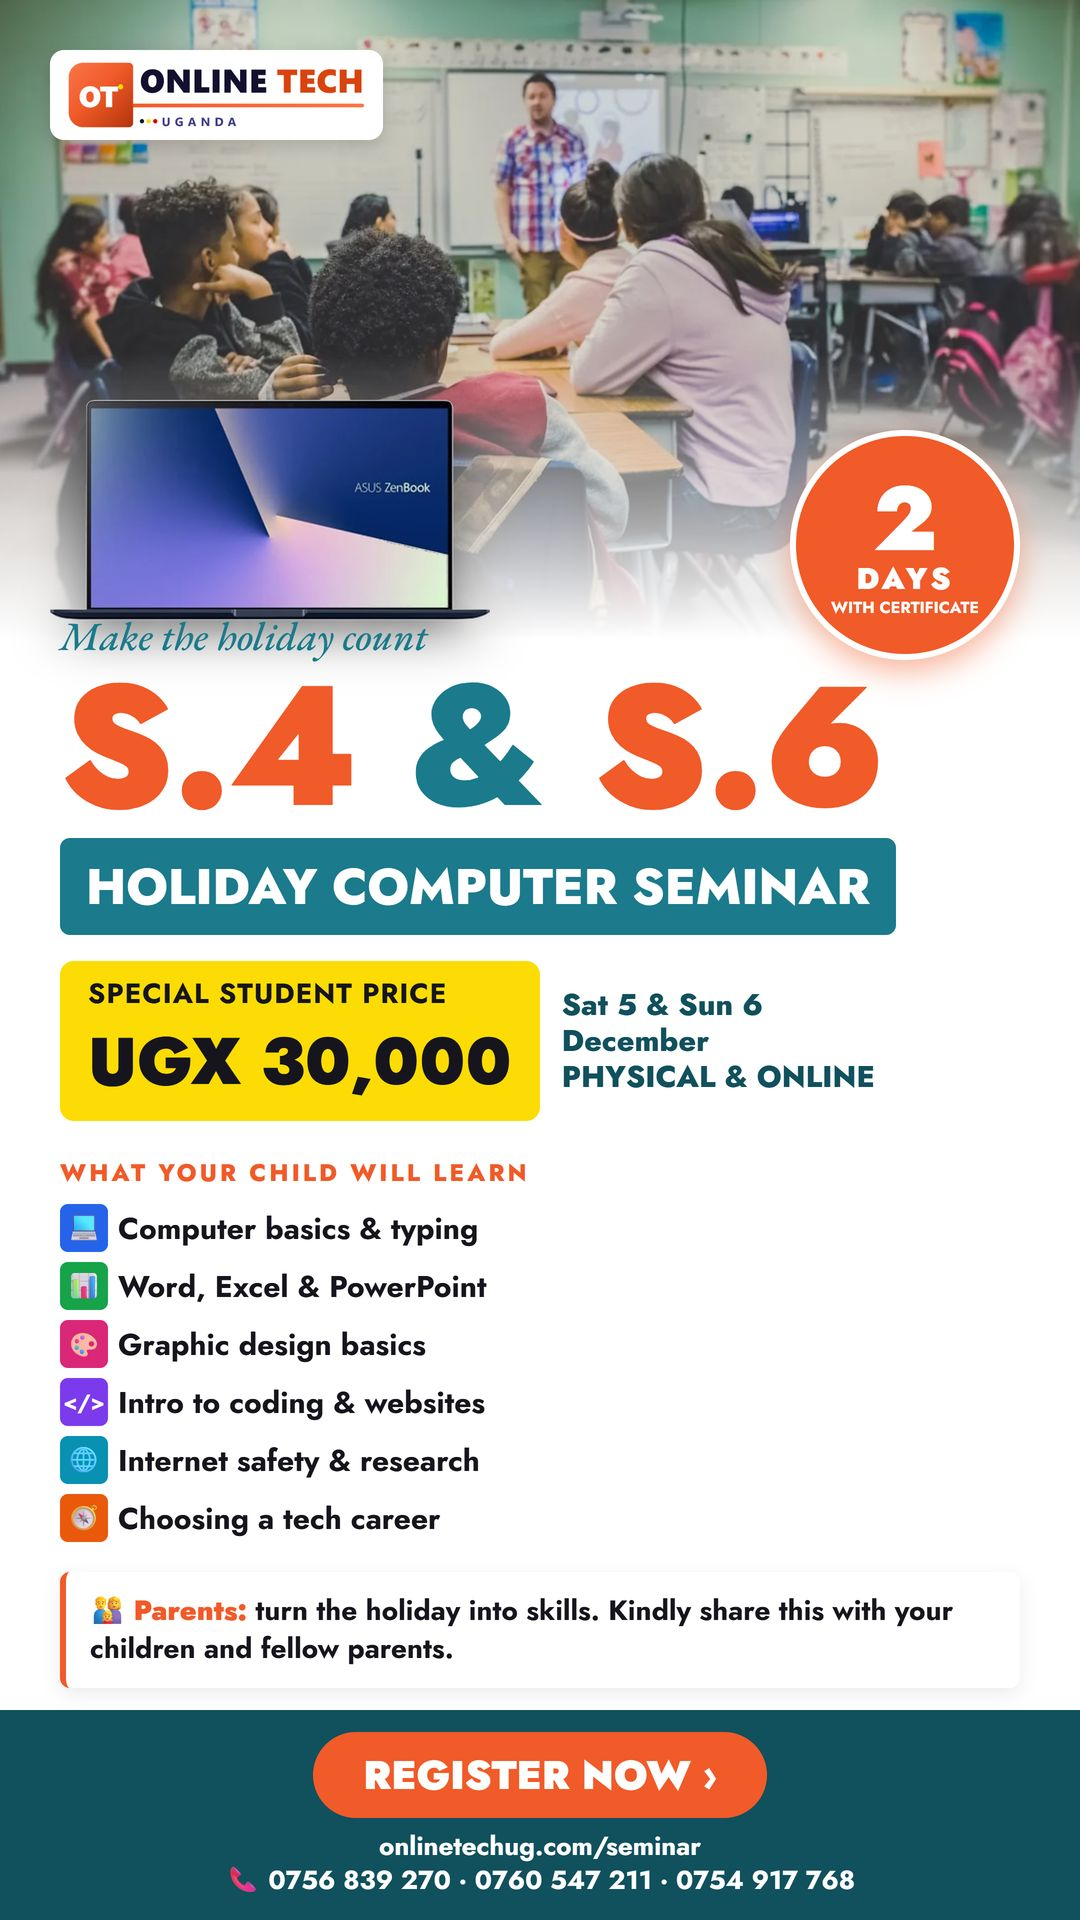
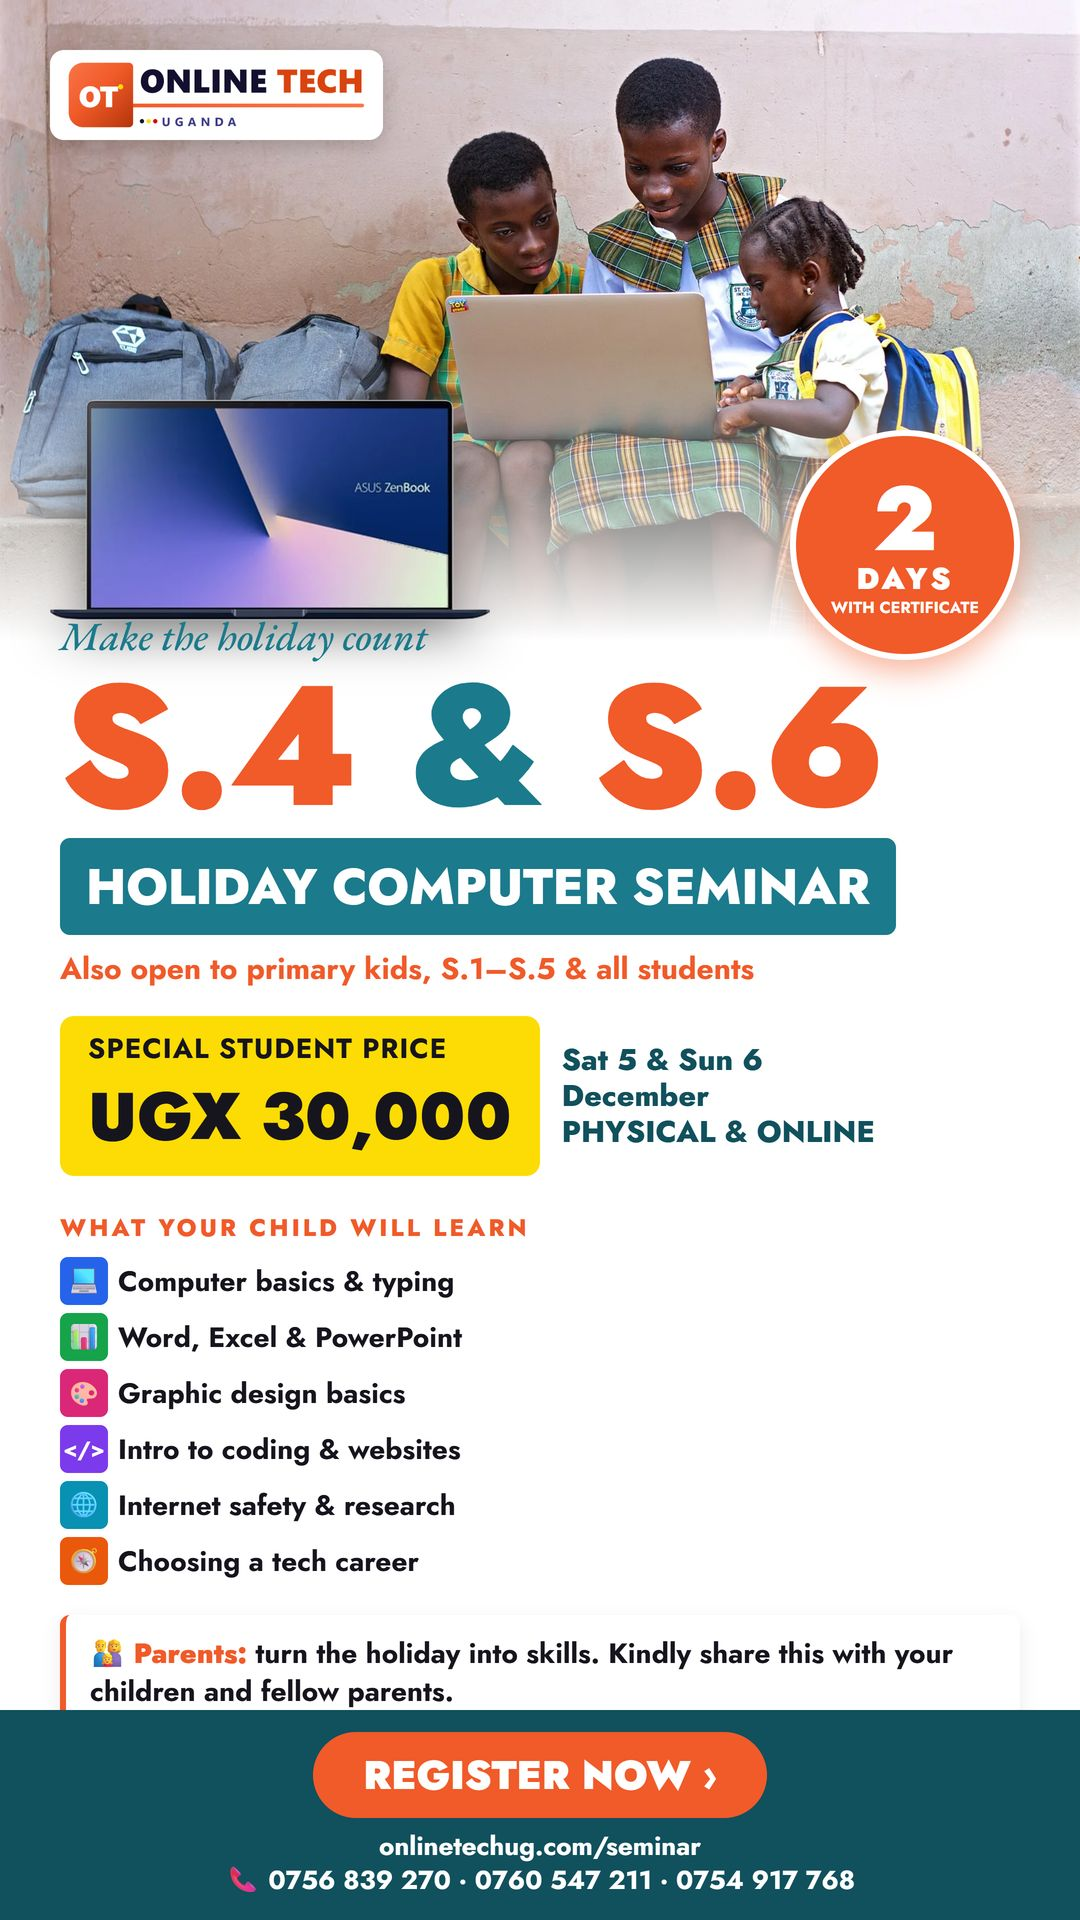
Seminar open to kids and all students; schoolchildren photo on every piece and the page

Changed region(s): [[0.0, 0.0, 1.0, 0.3125], [0.0306, 0.5, 0.8861, 0.9062], [0.0306, 0.875, 0.0611, 0.9062]]

diff --git a/apps/web/src/app/seminar/page.tsx b/apps/web/src/app/seminar/page.tsx
@@ -29,8 +29,8 @@ export default function SeminarPage() {
         crumbs={[{ label: "S.4 & S.6 Seminar" }]}
         eyebrow="Make the holiday count"
         title="S.4 & S.6 Holiday Computer Seminar"
-        subtitle="Saturday 5 and Sunday 6 December 2026 — two full days, physical and online, for Senior Four and Senior Six leavers. Special student price: UGX 30,000, with a certificate of attendance."
-        image="/web/photo-1509062522246-3755977927d7.webp"
+        subtitle="Saturday 5 and Sunday 6 December 2026 — two full days, physical and online, for Senior Four and Senior Six leavers — and open to primary kids, S.1–S.5, university students and adults. Special student price: UGX 30,000, with a certificate of attendance."
+        image="/web/kids-laptop.webp"
       >
         <a href="#register" className="bg-white px-7 py-3.5 text-[12px] font-semibold uppercase tracking-[0.16em] text-ink-900 transition hover:bg-brand-500 hover:text-white">
           Register now
@@ -67,7 +67,7 @@ export default function SeminarPage() {
           <div className="mt-8 rounded-md border-l-4 border-brand-500 bg-white p-5 shadow-sm">
             <p className="font-semibold text-ink-900">👨👩👧 A word to parents</p>
             <p className="mt-1 text-[15px] leading-relaxed text-ink-700/85">
-              The long holiday after S.4 and S.6 is the best time to learn the computer skills every course and job now
+              The long holiday is the best time, whether your child has just finished S.4 or S.6, is in primary school or S.1–S.5, to learn the computer skills every course and job now
               expects. Kindly register your child, and share this page with fellow parents so their children can join too.
             </p>
             <a
